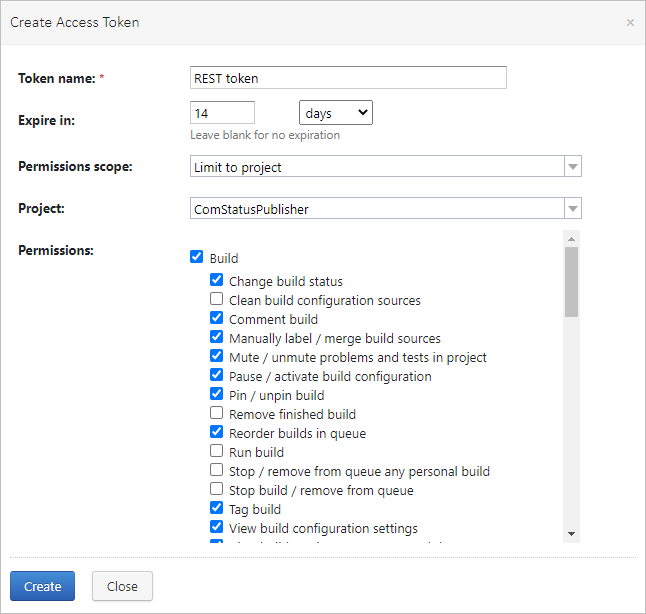
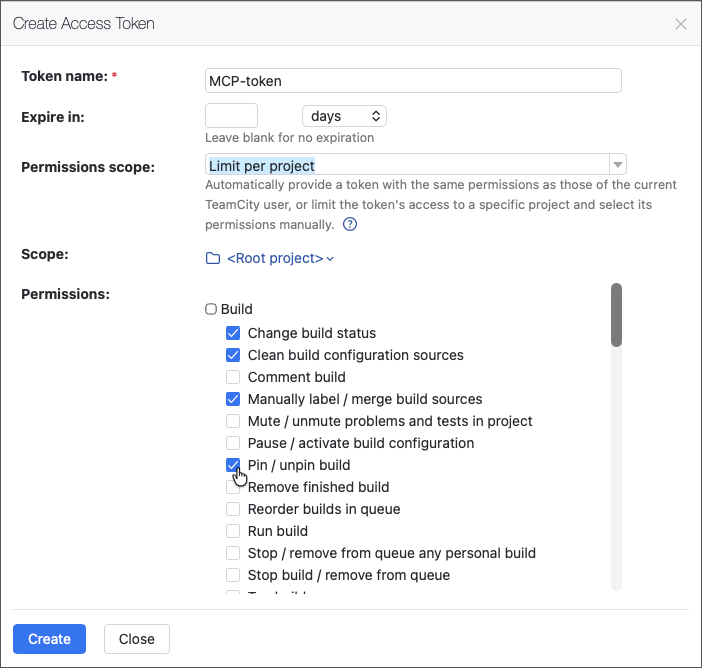
MCP & CLI updates

diff --git a/topics/ai-agent-integration.md b/topics/ai-agent-integration.md
@@ -1,0 +1,148 @@
+# Integration with AI Agents
+
+<show-structure for="chapter" depth="2"/>
+
+While [](ai-assistant.md) is a great tool to debug and analyze existing TeamCity workflows, its availability is limited to TeamCity UI. However, you may also require interacting with TeamCity from an external AI-powered tool. For example, when using an agentic IDE like [Air](https://air.dev/) or [Cursor](https://cursor.com/), you may want to run your CI/CD tasks along with editing the source code. To do this, you need to equip the agent with tools to work with TeamCity.
+
+There are two major approaches to doing this: CLI tools and MCP servers. TeamCity supports both, so before let's first dive into the basics of each one.
+
+<deflist type="narrow">
+
+<def title="MCP">
+
+[Model Context Protocol](https://modelcontextprotocol.io/docs/getting-started/intro) is an open-source standard for connecting AI applications to external systems. Your external AI solution uses an authorized request to the specific endpoint and retrieves a list of ready-to-use tools for working with this resource.
+
+</def>
+
+<def title="CLI">
+
+If a product comes with CLI support, you can "teach" the AI agent to work with supported commands. To do so, an agent needs a [skill](https://agentskills.io/home) — folders with instructions, scripts, and resources that the agent can load when relevant to improve its performance in specialized tasks. At its bare minimum, a skill is a simple `SKILL.md` with detailed instructions that tell an agent how to perform a specific task. 
+
+</def>
+
+</deflist>
+
+The choice between MCP and CLI integration depends on the nature of your AI tool and its environment.
+
+* **Environment requirements**. Using agent skills demands an environment where you can install the related CLI tool. For example, locally running code agents like Codex, Claude Code, and Junie CLI can use skills to run commands and work with files. Unlike them, chat tools like ChatGPT or Claude cannot use CLI tools directly.
+
+* **Nature of instructions**. When the primary goal is to run specific actions, CLI might be a more natural choice. For example, a code agent can call terminal commands to report the latest build status or run a specific test suite. At the same time, chat agents that rely on MCP excel at smart problem investigation and analytics.
+
+* **Safety concerns** Safety depends heavily on permissions and sandboxing. When compared to an agent using MCP tools, a typical CLI-capable agent can do more damage if permissions are too broad.
+
+* **Implementation costs**. If the software already has a good CLI and the vendor gives you a ready-made skill, you can often drop it into the repo and start immediately, without configuring a server connection. TeamCity CLI comes with a [ready-to-use skill](teamcity-cli-ai-agent-integration.md) that allows you to do exactly that.
+
+* **Scalability**. A large number of tools connected upfront may create a significant overhead and drastically reduce the available context window of an LLM. Various solutions designed to mitigate this issue (for example, Anthropic [Tool search tool](https://www.anthropic.com/engineering/advanced-tool-use)) may deal with MCP tools better than skills.
+
+For TeamCity specifically, integration via the [CLI tool](teamcity-cli.md) allows for a wider range of operations. For example, the agent can call CLI commands to [disable agents](teamcity-cli-managing-agents.md#Enabling+and+disabling+agents) or [edit project parameters](teamcity-cli-managing-projects.md#Managing+project+parameters), whereas the range of "developer-level" operations available via the TeamCity MCP tools is currently limited to starting new personal builds. We expect to expand the range of supported operations in future releases.
+
+## TeamCity MCP
+
+TeamCity servers expose the `<server-url>/app/mcp` endpoint that exposes three AI tools:
+
+<deflist type="medium">
+
+<def title="teamcity_build_log">
+
+Retrieves the full build log for the target build. Supports pagination and filtering by message types (all lines or only warnings and errors). Used to investigate failed builds.
+
+</def>
+
+
+<def title="teamcity_rest_get">
+
+Sends `GET` requests using [TeamCity REST API](https://www.jetbrains.com/help/teamcity/rest/teamcity-rest-api-documentation.html): return the list of projects and build configurations, find the last successful build, display currently muted problems, and so on. The list of available operations depends on the auth token permissions scope.
+
+</def>
+
+
+<def title="teamcity_rest_post">
+
+Sends `POST` requests using [TeamCity REST API](https://www.jetbrains.com/help/teamcity/rest/teamcity-rest-api-documentation.html). Currently, supports only `POST` requests to the `/app/rest/buildQueue` endpoint to trigger new builds with default or custom settings. All builds triggered by AI agents are marked with the [`personal=true`](https://www.jetbrains.com/help/teamcity/rest/build.html#personal) attribute.
+
+</def>
+
+</deflist>
+
+To retrieve and use these tools, an AI agent needs to pass token-based authorization in TeamCity. You can issue access tokens on the [user profile page](configuring-your-user-profile.md#Managing+Access+Tokens). TeamCity allows you to choose whether you want the agent to have same permissions as the user who issued the token, or fine-grained per-project permissions.
+
+<img src="create-access-token.png" width="706" alt="Create an access token"/>
+
+### Examples
+
+This section illustrates how to connect most popular AI tools with TeamCity using the MCP server.
+
+<procedure title="Air, Cursor">
+
+Open IDE settings and paste the following JSON snippet to add a global/project/workspace server:
+
+```JSON
+{
+  "mcpServers": {
+        "TeamCity nightly": {
+            "type": "http",
+            "url": "<TeamCity-server-URL>/app/mcp",
+            "headers": {
+                "Authorization": "Bearer <TeamCity access token>"
+            }
+        }
+  }
+}
+```
+
+</procedure>
+
+<procedure title="Claude">
+
+Modify the **Settings | Developer | Edit config** file as follows:
+
+```JSON
+{
+  "mcpServers": {
+    "my-mcp-server": {
+      "command": "npx",
+      "args": [
+        "mcp-remote",
+        "<TeamCity-server-URL>/app/mcp",
+        "--header",
+        "Authorization: Bearer ${TEAMCITY_TOKEN}"
+      ],
+      "env": {
+        "TEAMCITY_TOKEN": "<TeamCity access token>"
+      }
+    }
+  }
+}
+```
+
+</procedure>
+
+<procedure title="Codex">
+
+Add the following snippet to the `~/.codex/config.toml` file...
+
+```TOML
+[mcp_servers.buildserver]
+url = "<TeamCity-server-URL>/app/mcp"
+[mcp_servers.buildserver.http_headers]
+Authorization = "Bearer <TeamCity access token>"
+```
+
+...or run the following terminal command.
+
+```Shell
+codex mcp add buildserver --url <TeamCity-server-URL>/app/mcp --bearer-token-env-var TEAMCITY_SERVER_TOKEN
+```
+</procedure>
+
+<procedure title="Claude Code">
+
+Run the following terminal command:
+
+```Shell
+claude mcp add --transport http buildserver <TeamCity-server-URL>/app/mcp --header "Authorization: Bearer <TeamCity access token>"
+```
+
+</procedure>
+
+

diff --git a/topics/teamcity-cli-configuration.md b/topics/teamcity-cli-configuration.md
@@ -62,7 +62,11 @@ The server URL used when no `TEAMCITY_URL` environment variable is set. Updated 
 </td>
 <td>
 
+<!--
 A map of server URLs to their settings. Each entry stores the `user` field (username on that server) and optionally `guest: true` for guest access, `ro: true` for read-only mode, or TLS certificate paths for mTLS (`client_cert`, `client_key`, `ca_cert`). Tokens are stored in the system keyring, not in this file, unless `--insecure-storage` was used during login.
+-->
+
+A map of server URLs to their settings. Each entry stores the `user` field (username on that server) and optionally `guest: true` for guest access, `ro: true` for read-only mode. Tokens are stored in the system keyring, not in this file, unless `--insecure-storage` was used during login.
 
 </td>
 </tr>
@@ -157,6 +161,8 @@ Path to the Kotlin DSL directory. Overrides automatic detection of `.teamcity/` 
 
 </td>
 </tr>
+
+<!--
 <tr>
 <td>
 
@@ -193,6 +199,7 @@ Path to a PEM-encoded CA certificate file. Use this when the TeamCity server use
 
 </td>
 </tr>
+-->
 <tr>
 <td>
 

diff --git a/topics/teamcity-cli-ai-agent-integration.md b/topics/teamcity-cli-ai-agent-integration.md
@@ -1,8 +1,14 @@
-[//]: # (title: AI Agent Integration)
+[//]: # (title: AI Agent Skill)
 
 <show-structure for="chapter" depth="2"/>
 
 TeamCity CLI includes a built-in skill that teaches AI coding agents how to use `teamcity` commands for common TeamCity workflows. The skill follows the [Agent Skills specification](https://agentskills.io), so it works with any compatible agent (for example, Claude Code, Cursor, and others).
+
+<tip>
+
+You can also integrate TeamCity with AI agents via the [MCP server](ai-agent-integration.md#TeamCity+MCP).
+
+</tip>
 
 ## Installing the skill
 

diff --git a/topics/teamcity-cli-authentication.md b/topics/teamcity-cli-authentication.md
@@ -280,6 +280,7 @@ Environment variables take precedence over the configuration file and keyring.
 >
 {style="warning"}
 
+<!--
 
 ## Mutual TLS (mTLS) {id="mtls"}
 
@@ -341,6 +342,8 @@ Environment variables take precedence over per-server config file settings.
 > Both `TEAMCITY_CLIENT_CERT` and `TEAMCITY_CLIENT_KEY` must be provided together. Specifying only one will result in an error.
 >
 {style="warning"}
+
+-->
 
 ## Advanced authentication scenarios
 
